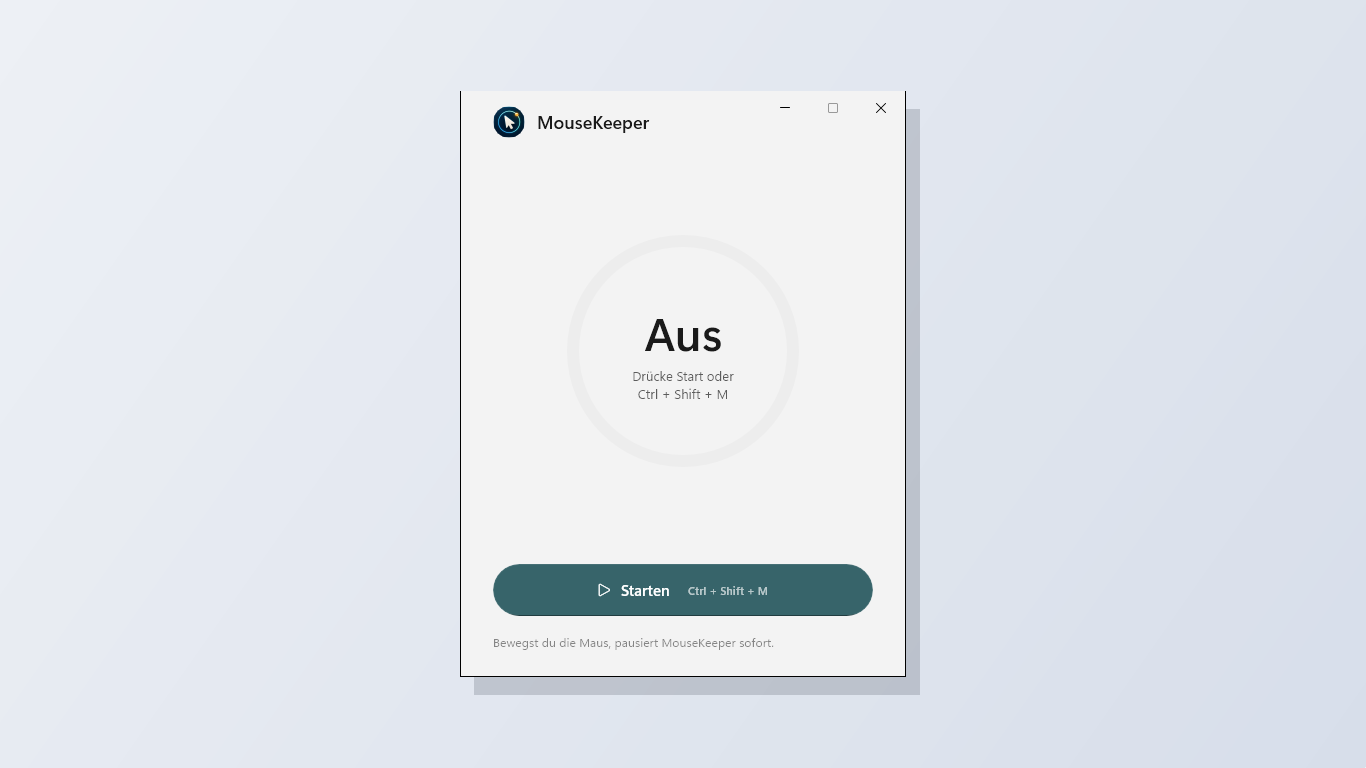
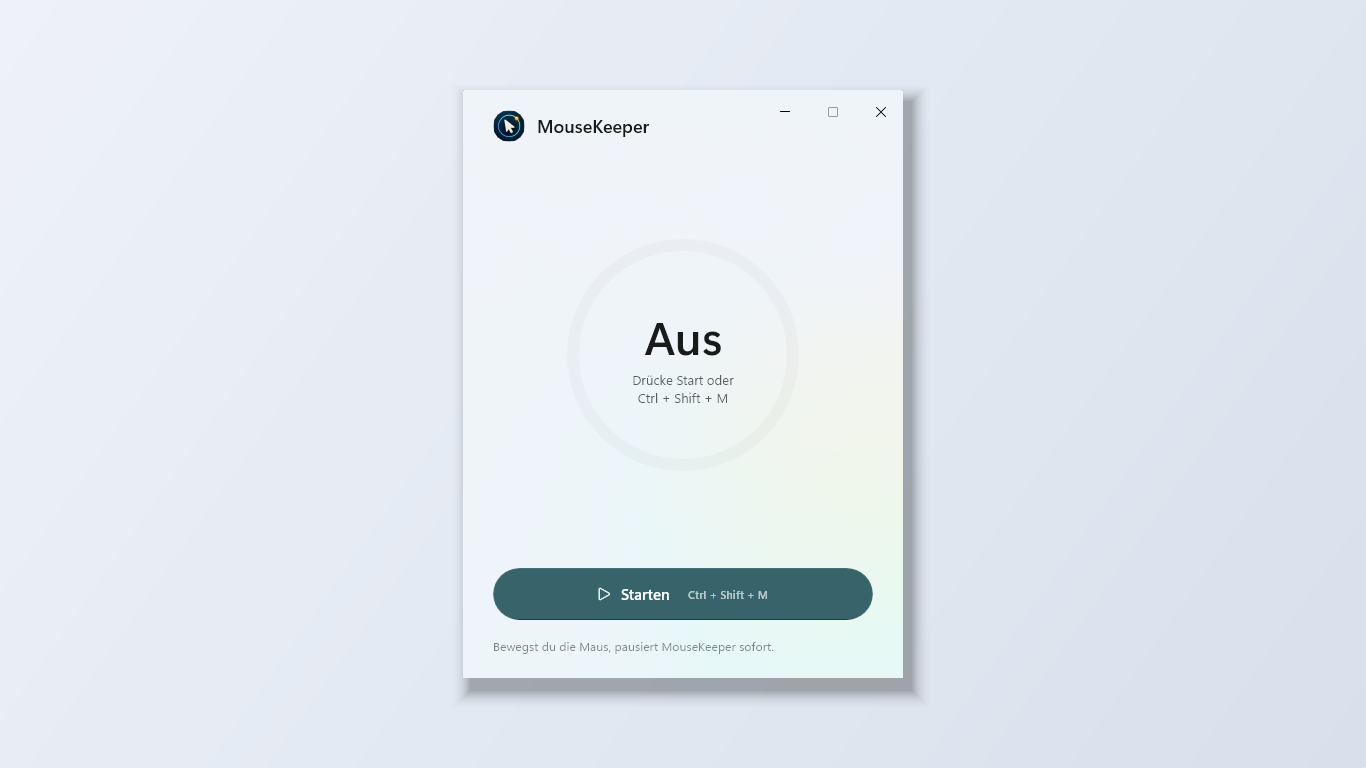
Add new screenshots and update captions for dark and light themes

Changed region(s): [[0.3382, 0.125, 0.6764, 0.9062], [0.4612, 0.4062, 0.5227, 0.5312], [0.3382, 0.125, 0.4919, 0.1875]]

diff --git a/StoreAssets/Screenshots/captions.md b/StoreAssets/Screenshots/captions.md
@@ -7,9 +7,11 @@ Use these optional captions in Partner Center if desired.
 - `01-dark-off.png`: MouseKeeper ready to start.
 - `02-dark-waiting.png`: MouseKeeper waiting for inactivity.
 - `03-dark-active.png`: MouseKeeper gently moving the mouse.
+- `04-dark-active-long.png`: MouseKeeper active with the movement timer running.
 
 ## Light
 
 - `01-light-off.png`: MouseKeeper ready to start.
 - `02-light-waiting.png`: MouseKeeper waiting for inactivity.
 - `03-light-active.png`: MouseKeeper gently moving the mouse.
+- `04-light-active-long.png`: MouseKeeper active with the movement timer running.
